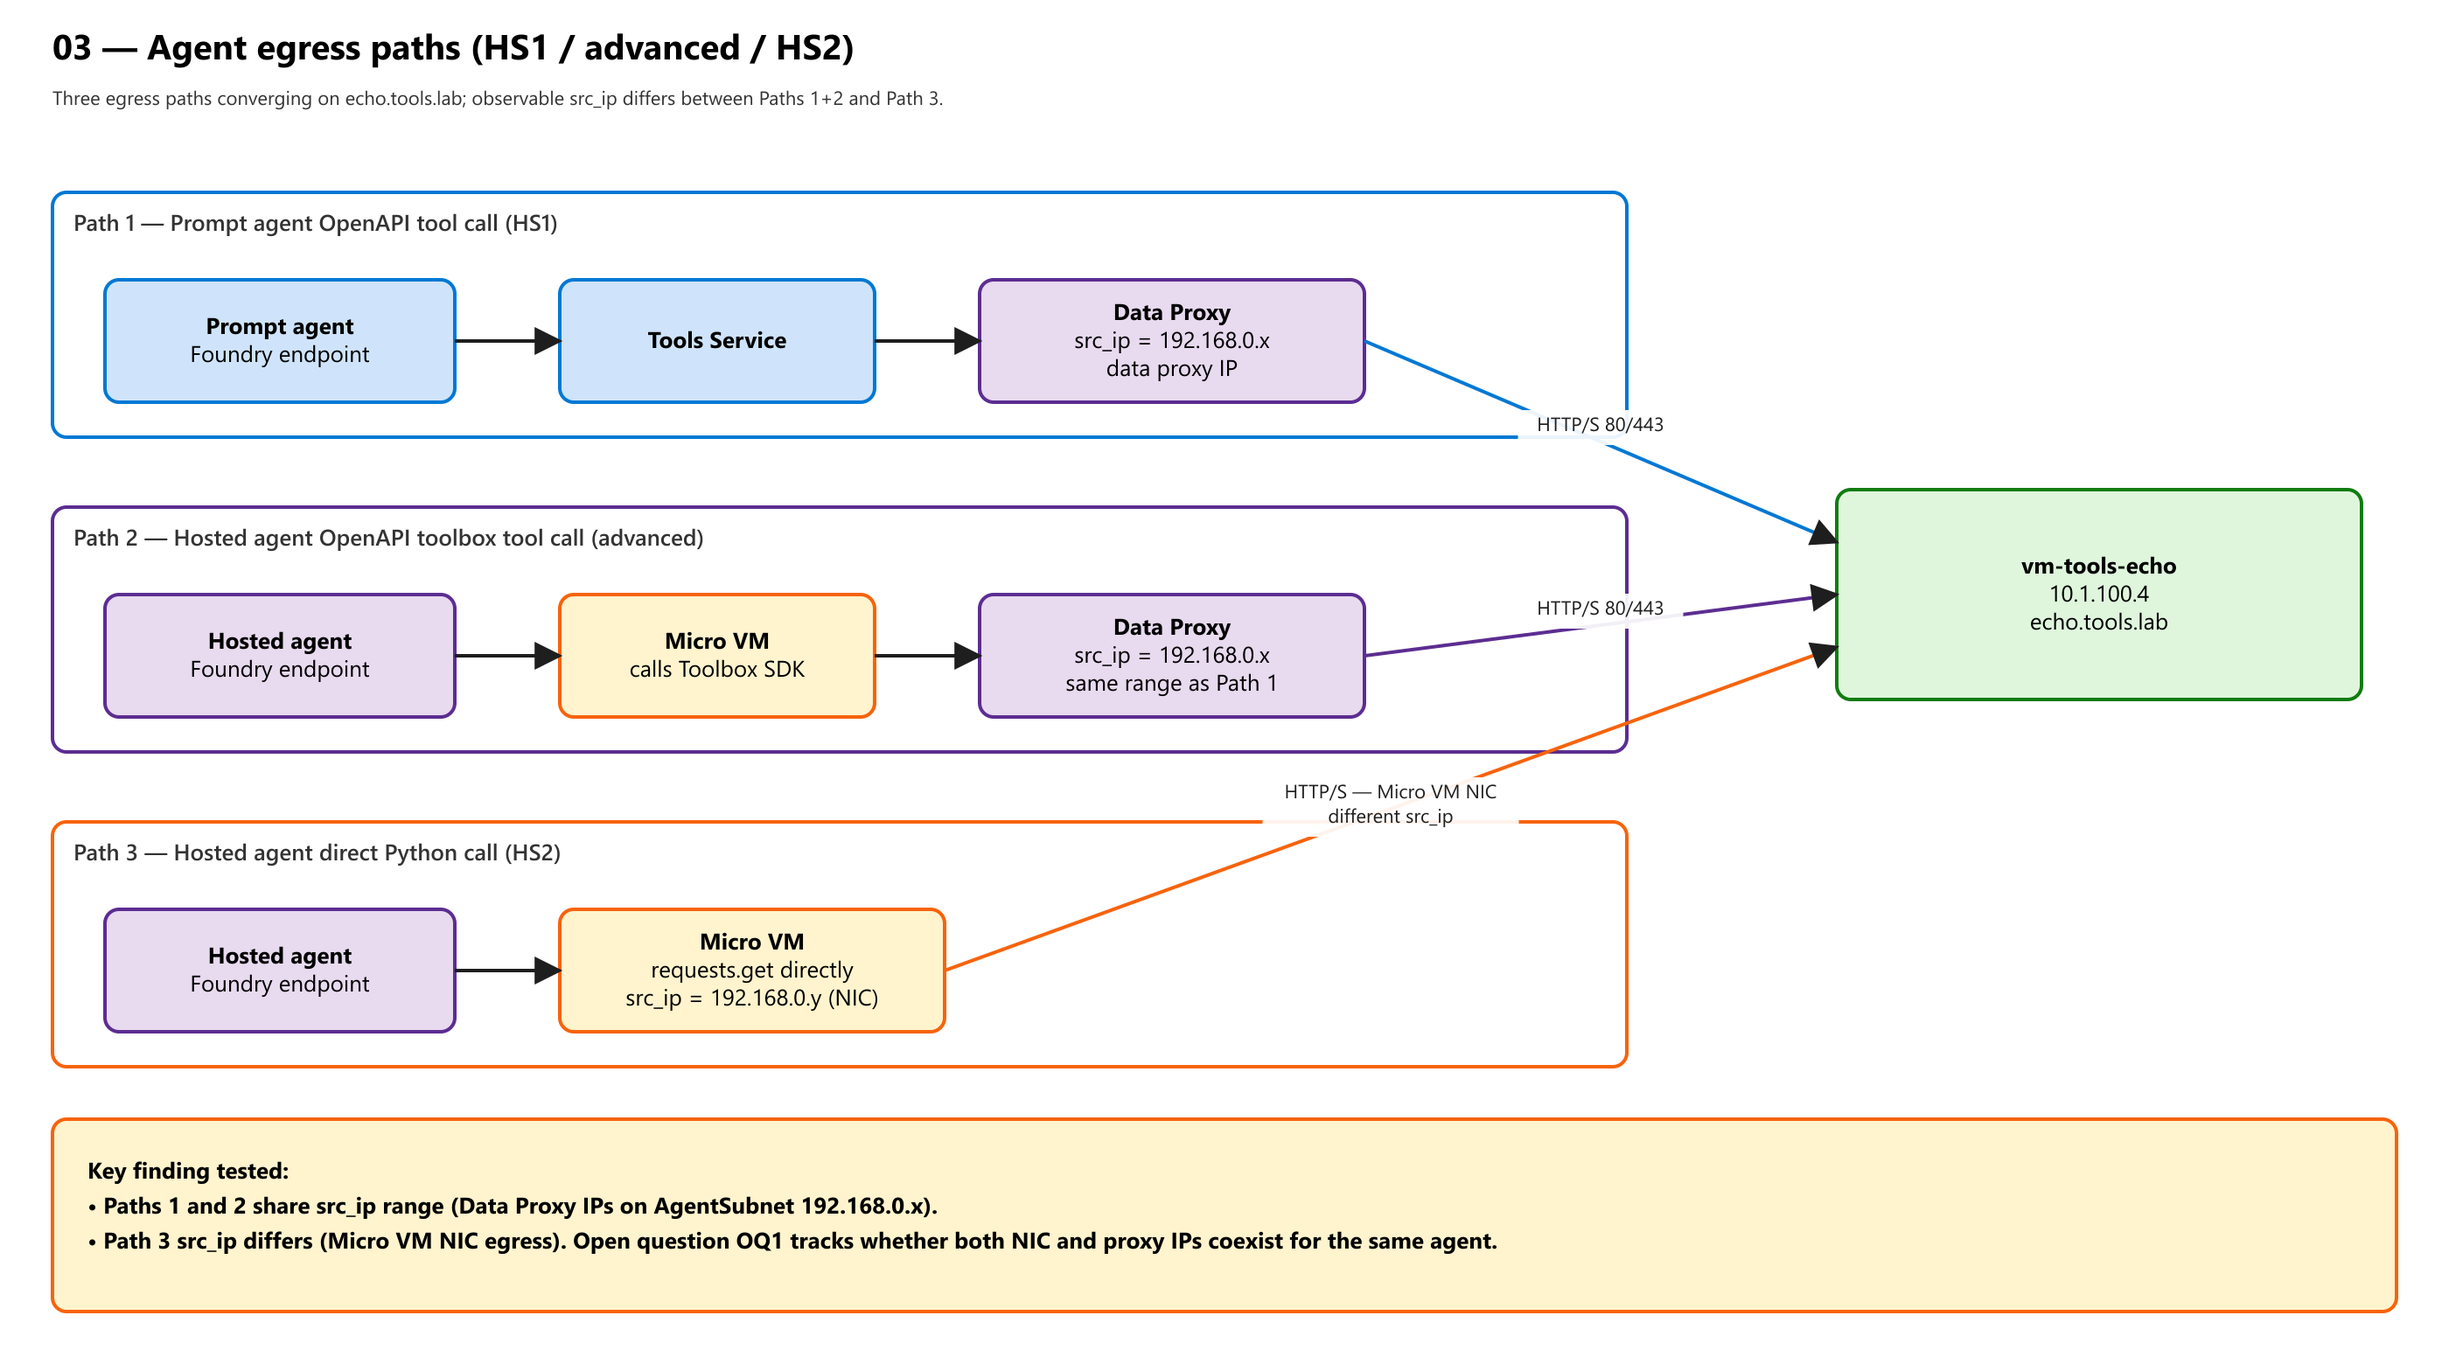
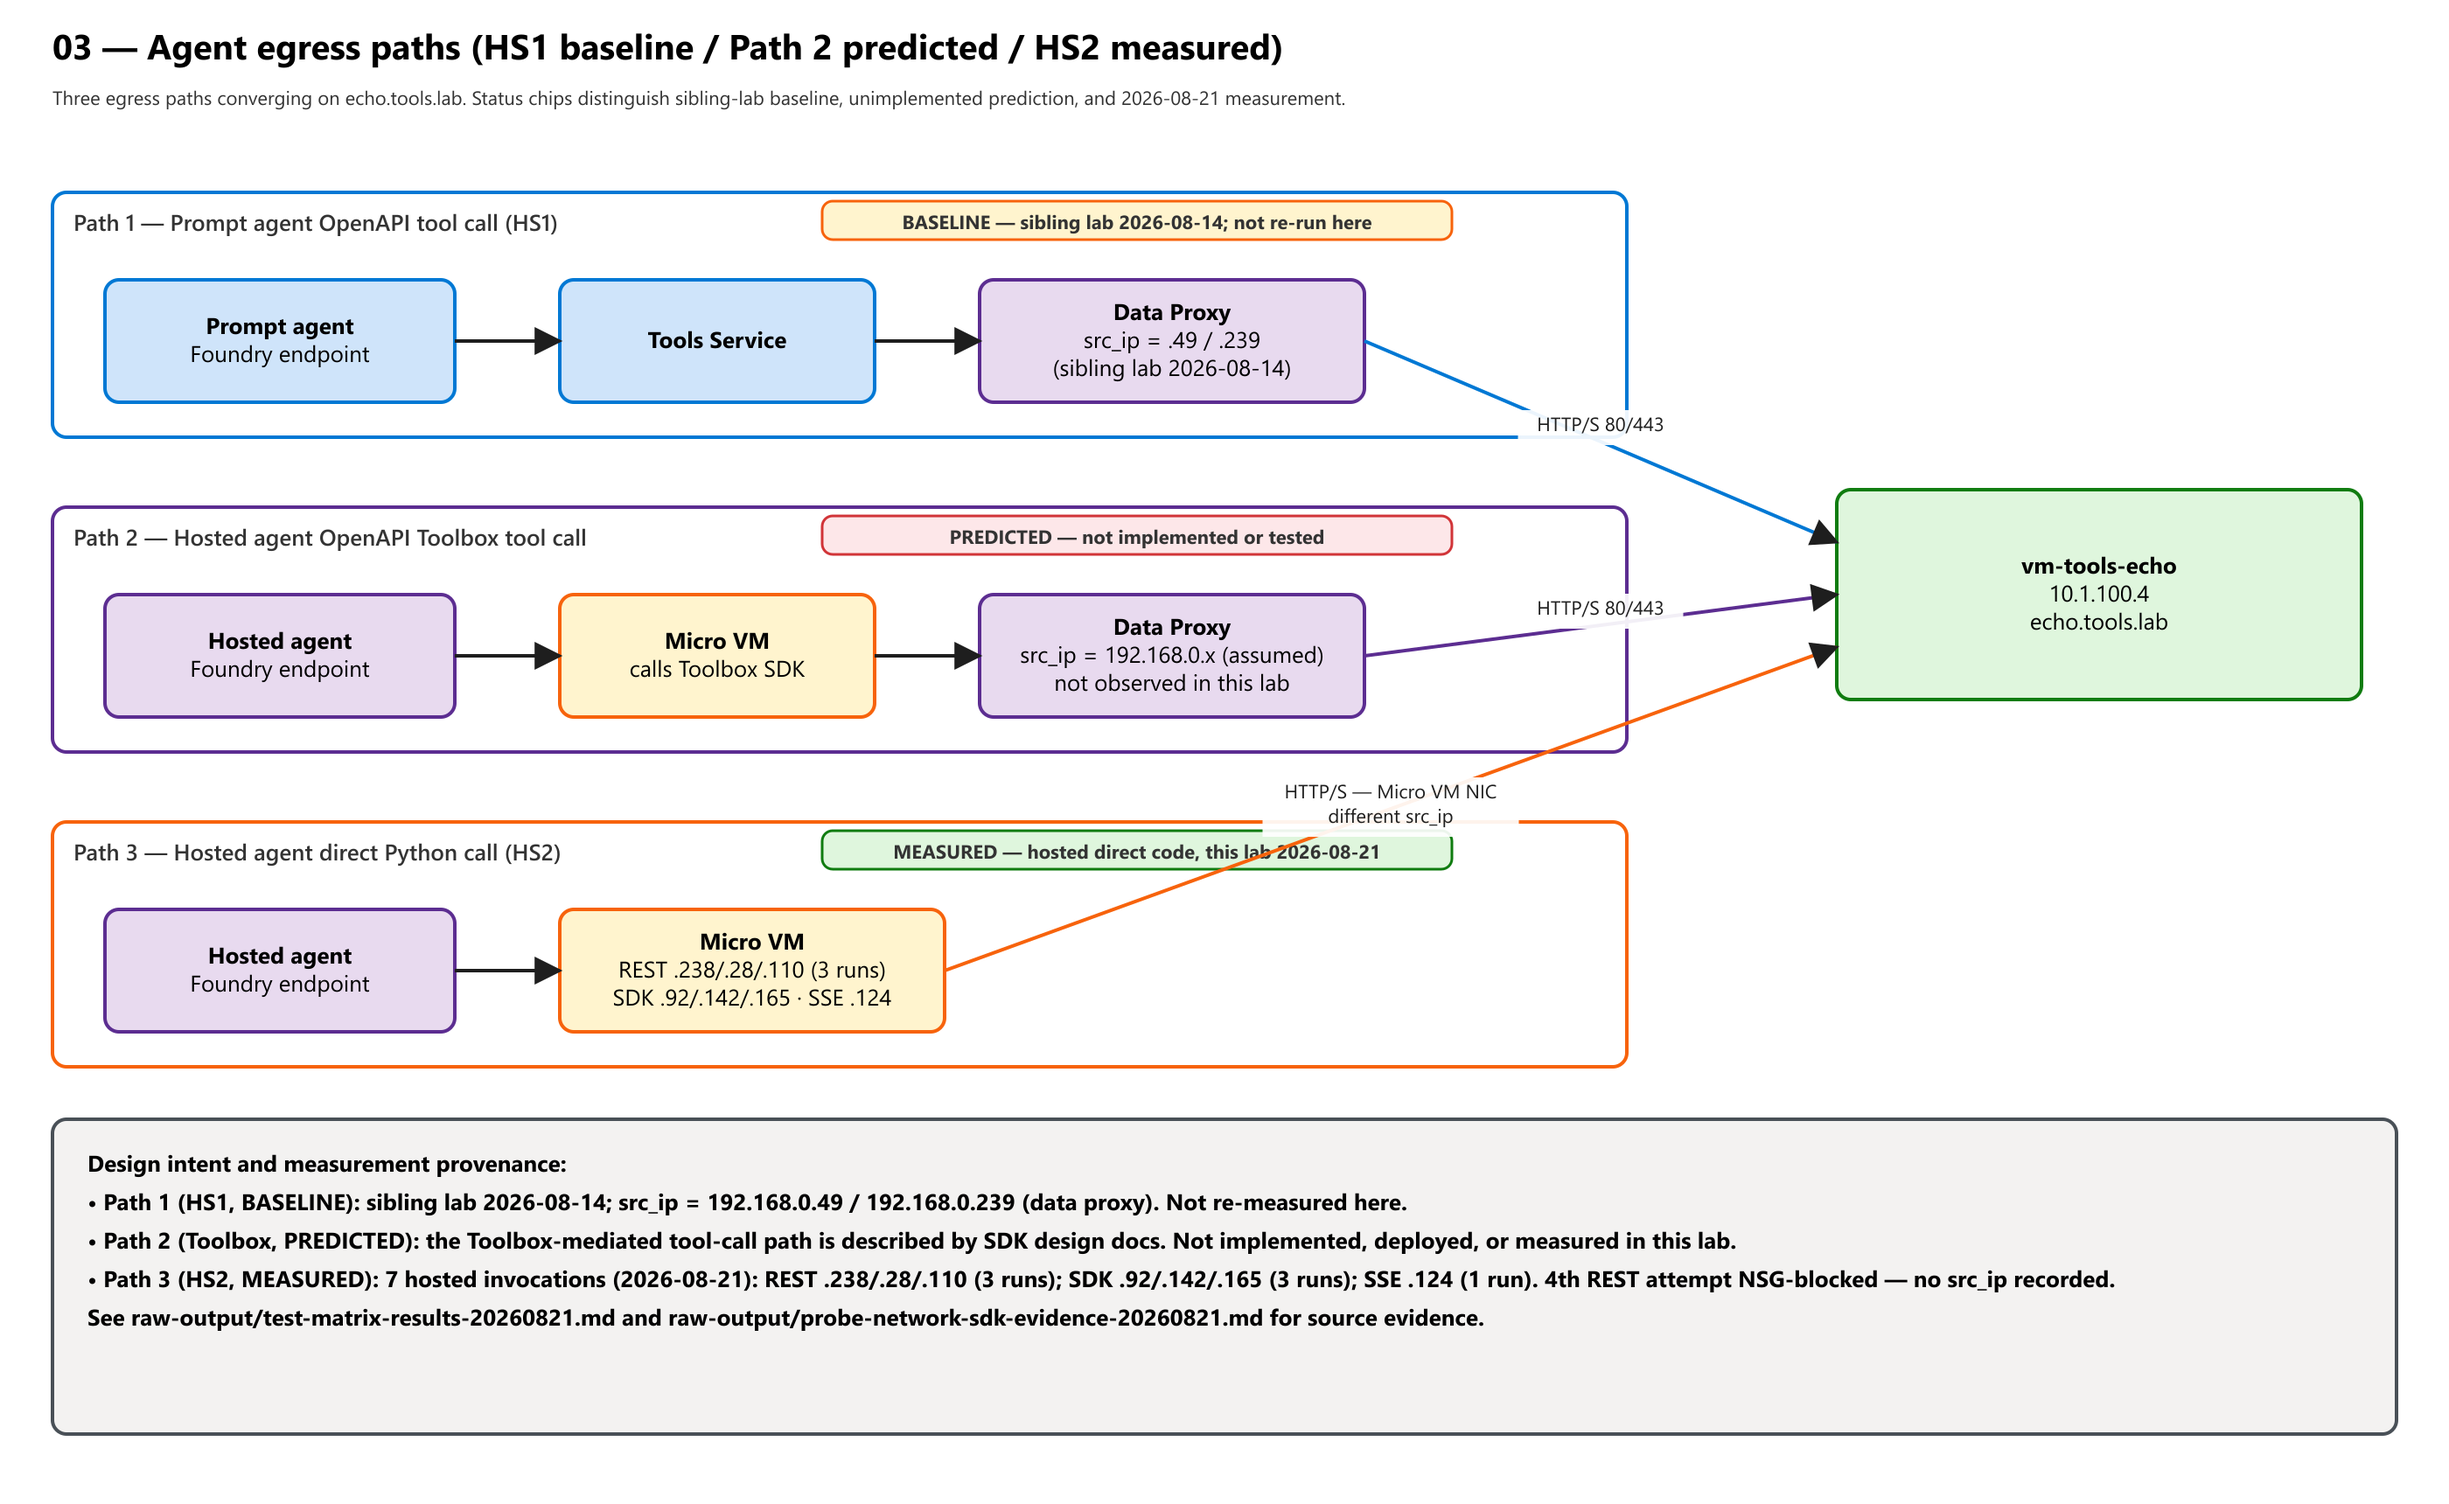
fix(foundry-prompt-vs-hosted): replace rejected diagrams with Morpheus's approved final assets
- Replace diagram 03 (03-agent-egress-paths.*) with Morpheus-corrected version
  (318873 bytes vs 251053 bytes Oracle rejected); fixes transposed hosted IPs
  and overclaimed Toolbox/data-proxy path
- Refresh diagrams 04 (dns-resolution-contexts) and 06 (programmatic-invocation)
  with post-Morpheus revisions from lab diagrams/

Prose corrections:
- SS3 intro: clarify diagram paths 1/2/3 with explicit BASELINE/PREDICTED-INFERRED/CONFIRMED labels
- Diagram 03 alt text: remove transposed IP placeholders; add correct provenance:
  prompt baseline .49/.239 (sibling lab), hosted REST .238/.28/.110,
  SDK .92/.142/.165, SSE .124 (seven observations); fourth REST NSG-blocked/no src_ip

Copilot-Session: e4f35fa5-f7f9-430a-a53f-29a15691fccc

diff --git a/2026-08-foundry-prompt-vs-hosted-networking/README.md b/2026-08-foundry-prompt-vs-hosted-networking/README.md
@@ -104,9 +104,9 @@ The diagram below shows the full topology. Notice that **both** the data proxy a
 
 ## 3. The Four Packet Paths
 
-The diagram below compares the three egress paths side by side. Paths 1 and 2 both terminate at the data proxy before reaching the tool server — the agent's code and the caller are not in the data path. Path 3 (hosted direct code) is where your Python runs in the data path.
+The diagram below compares three egress paths side by side. Diagram path 1 (prompt agent data proxy, **BASELINE from sibling lab 2026-08-14**) and diagram path 2 (hosted agent Toolbox routed through the data proxy, **PREDICTED/INFERRED — not tested in this lab**) both terminate at the data proxy before reaching the tool server. Diagram path 3 (hosted agent direct Python code, **CONFIRMED**) is where your Python code executes in the data path.
 
-![Three egress paths: Path 1 (prompt agent) — caller to Tools Service to data proxy to tool server (src_ip 192.168.0.x, baseline evidence). Path 2 (hosted agent Toolbox) — caller to Micro VM to data proxy to tool server. Path 3 (hosted agent direct Python code, confirmed) — caller to Micro VM (requests.get) directly to tool server; src_ip 192.168.0.y changes per invocation.](assets/03-agent-egress-paths.png)
+![Three egress paths. Path 1 (prompt agent, BASELINE — sibling lab 2026-08-14, not re-run here): data proxy src_ip observed at target 192.168.0.49 and 192.168.0.239. Path 2 (hosted agent Toolbox via data proxy, PREDICTED/INFERRED — not tested in this lab): no measured src_ip available; routing through data proxy is inferred from architecture documentation, not empirically confirmed. Path 3 (hosted agent direct Python code, CONFIRMED): Micro VM NIC src_ip changes per invocation — REST runs .238/.28/.110, SDK runs .92/.142/.165, SSE stream .124 (seven successful observations); a fourth REST attempt was NSG-blocked with no src_ip recorded.](assets/03-agent-egress-paths.png)
 
 *[SVG](assets/03-agent-egress-paths.svg) · [Excalidraw source](assets/03-agent-egress-paths.excalidraw) · [Mermaid source](assets/03-agent-egress-paths.mmd)*
 
@@ -463,4 +463,3 @@ The invocation diagram maps the full client-to-agent flow, including RBAC and pr
 See [references.md](references.md) for the full annotated reference list.
 
 **Source lab (public):** [erjosito/net-lab-builder — foundry-agent-prompt-vs-hosted-networking](https://github.com/erjosito/net-lab-builder/tree/main/labs/foundry-agent-prompt-vs-hosted-networking)
-
